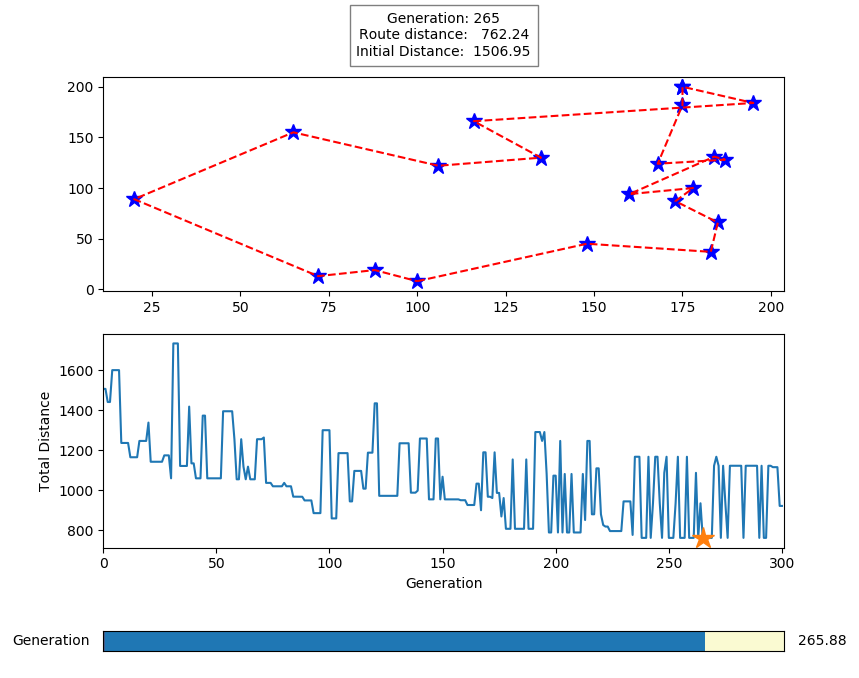
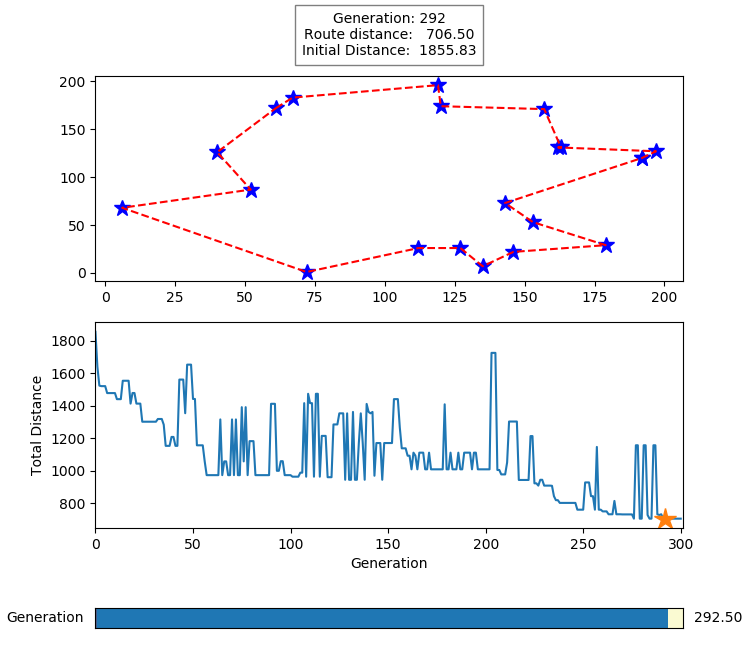
implemented tournament selection, sped up fitness calc

diff --git a/traveler2D.py b/traveler2D.py
@@ -47,13 +47,25 @@ class City:
 class Route:
     def __init__(self, ordered_cities):
         '''The route the salesman travels through the cities'''
-        self.genes = ordered_cities
+        self._genes = ordered_cities
+        self._fitness = None
 
 
     def randomize(self):
         '''Randomizes the route'''
-        self.genes = random.sample(self.genes, len(self.genes))
+        self._genes = random.sample(self._genes, len(self._genes))
         return self
+
+
+    @property
+    def genes(self):
+        return self._genes
+
+
+    @genes.setter
+    def genes(self, val):
+        self._genes = val
+        self._fitness = None
 
 
     @property
@@ -69,7 +81,9 @@ class Route:
     @property
     def fitness(self):
         '''ranks the fitness of this route on scale of 0 to 1'''
-        return 1 / self.distance
+        if self._fitness is None:
+            self._fitness = 1 / self.distance
+        return self._fitness
 
 
     @property
@@ -242,17 +256,21 @@ class Mutator:
             A = random.randint(0, len(child.genes)-1)
             B = random.randint(0, len(child.genes)-1)
             child.genes[A], child.genes[B] = child.genes[B], child.genes[A]
+            child._fitness = None
+
 
 class Selector:   
-    def __init__(self, population, elitesize):
+    def __init__(self, population, elitesize:int, tsize:int=2):
         '''Selects a parent population from the population param'''
         self.population = population
         self.elitesize = elitesize
+        self.tsize = tsize
 
 
     def run(self):
         '''Runs the selector'''
-        parent_individuals = self.stochastic_acceptance_selection()
+        #parent_individuals = self.stochastic_acceptance_selection()
+        parent_individuals = self.tournament_selection()
 
         # elitism
         self.population.rank()
@@ -263,6 +281,15 @@ class Selector:
                 
     def tournament_selection(self):
         '''Runs the selection process for this population'''
+        parents = []
+        for i in range(len(self.population.individuals) - self.elitesize):
+            winner = self.population.random_individual()
+            for i in range(1, self.tsize):
+                competitor = self.population.random_individual()
+                if competitor.fitness > winner.fitness:
+                    winner = competitor
+            parents.append(winner)
+        return parents
 
 
     def stochastic_acceptance_selection(self):
@@ -285,11 +312,12 @@ class Selector:
 
 
 class GeneticAlgorithm:
-    def __init__(self, cities, populationsize, elitesize, mutationrate, generations):
+    def __init__(self, cities, populationsize, elitesize, tsize, mutationrate, generations):
         self.population = Population().randomize(cities, populationsize)
         self.mutationrate = mutationrate
         self.generations = generations
         self.elitesize = elitesize
+        self.tsize = tsize
         self.best_routes = []
 
 
@@ -300,14 +328,14 @@ class GeneticAlgorithm:
         self.best_routes.append(self.population.best_individual)
 
         for g in range(self.generations):
-            print(f'Generation {g}/{self.generations}: {1/self.population.max_fitness}')
+            print(f'Generation {g}/{self.generations}: {1/self.population.best_individual.fitness}')
             self.population = self.next_gen()
             self.best_routes.append(self.population.best_individual)
 
 
     def next_gen(self):
         '''using the current population, create the next generation'''
-        parents = Selector(self.population, self.elitesize).run()
+        parents = Selector(self.population, self.elitesize, self.tsize).run()
         children = Crosser(parents, self.elitesize).run() # TODO: ADD ELITESIZE TO THE CROSSER TOO
         children = Mutator(children, self.mutationrate).run()
         return children
@@ -318,7 +346,7 @@ class GeneticAlgorithm:
         plotroutes(self.best_routes)
 
 
-    def save(self, fp='gadata.json'):
+    def save(self, fp='data.json'):
         '''Export self as json file'''
         with open(fp, 'w') as f:
             json.dump(self, f, default=to_serializable)
@@ -363,15 +391,16 @@ def run_new_ga():
     ga = GeneticAlgorithm(cities=cities, 
                      populationsize=100, 
                      elitesize=20, 
+                     tsize=4, 
                      mutationrate=0.01, 
                      generations=300)
     ga.run()
-    ga.save('savedata\\run1_20c300g.json')
+    ga.save('savedata\\run5_tournamentselection.json')
     ga.plot()
 
 
 if __name__ == '__main__':
 
-    read_ga_file('assets\\example20c300g.json')
-    #run_new_ga()
+    #read_ga_file('savedata\\run1_tournamentselection.json')
+    run_new_ga()
     

diff --git a/plotter.py b/plotter.py
@@ -86,7 +86,7 @@ def plotroutes(routes):
     
     axcolor = 'lightgoldenrodyellow'
     axgen = plt.axes([0.15,0.05,0.75,0.03], facecolor=axcolor)
-    sgen = Slider(axgen, 'Generation', valmin=0, valmax=len(gens), valinit=0) #valstep =1)
+    sgen = Slider(axgen, 'Generation', valmin=0, valmax=len(gens)-1, valinit=0) #valstep =1)
     sgen.on_changed(update)
 
     plt.show()
